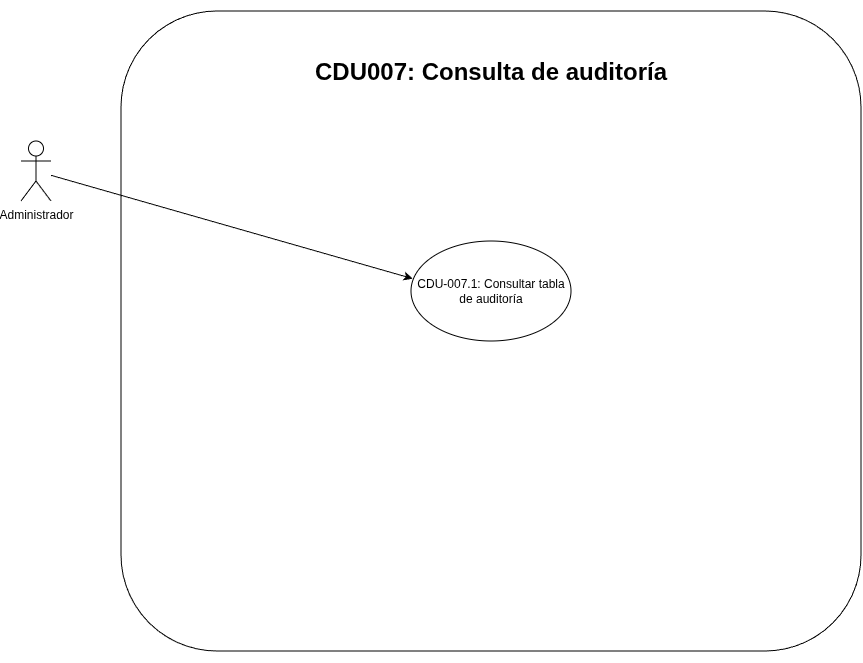
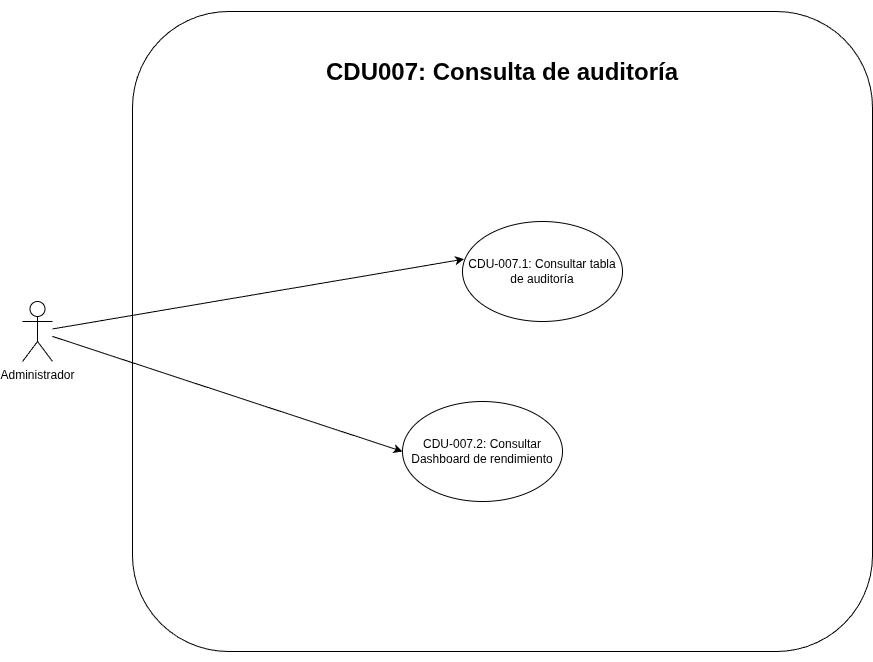
202300512: changes

diff --git a/docs/03_CasosDeUso/casosDeUso.md b/docs/03_CasosDeUso/casosDeUso.md
@@ -202,7 +202,7 @@
 | Descripción | Permite al usuario configurar o retirar un PIN restrictivo y definir la clasificación máxima que uno de sus perfiles puede reproducir sin solicitar dicho PIN. |
 | Precondiciones | El usuario debe haber iniciado sesión y el perfil que desea configurar debe pertenecer a su cuenta. La configuración se realiza al editar un perfil existente. |
 | Postcondiciones | El PIN queda almacenado de forma protegida y el nivel de control parental queda asociado al perfil; o ambos quedan desactivados cuando el usuario retira el PIN. |
-| Flujo principal | 1. El usuario ingresa a la administración de perfiles.<br>2. El usuario selecciona un perfil y abre su edición.<br>3. El usuario activa el PIN restrictivo.<br>4. El usuario ingresa un PIN numérico de cuatro dígitos.<br>5. El usuario selecciona la clasificación máxima permitida sin PIN: TP, PG-13 o R.<br>6. El usuario guarda los cambios.<br>7. El sistema valida y almacena el PIN cifrado mediante hash.<br>8. El sistema asocia el nivel seleccionado al perfil y confirma su actualización. |
+| Flujo principal | 1. El usuario ingresa a la administración de perfiles.<br>2. El usuario habilita administración de perfiles y abre la edición del perfil deseado.<br>3. El usuario activa el PIN restrictivo.<br>4. El usuario ingresa un PIN numérico de cuatro dígitos.<br>5. El usuario selecciona la clasificación máxima permitida sin PIN: TP, PG-13 o R.<br>6. El usuario guarda los cambios.<br>7. El sistema valida y almacena el PIN cifrado mediante hash.<br>8. El sistema asocia el nivel seleccionado al perfil y confirma su actualización. |
 | Flujos alternos | FA1. El usuario desactiva el PIN restrictivo.<br>FA1.1 El sistema limpia el PIN y el nivel de control parental del perfil.<br>FA2. El contenido seleccionado para reproducir supera el nivel configurado.<br>FA2.1 El sistema solicita el PIN antes de reproducir, reanudar o crear una Watch Party.<br>FA3. El usuario cancela la solicitud del PIN durante la reproducción.<br>FA3.1 El sistema no ejecuta la acción protegida. |
 | Flujos de excepción | FE1. El PIN no contiene exactamente cuatro dígitos numéricos.<br>FE1.1 El sistema rechaza la configuración e informa la validación requerida.<br>FE2. El perfil no existe o no pertenece a la cuenta autenticada.<br>FE2.1 El sistema informa que el perfil no fue encontrado.<br>FE3. La sesión expiró o falla la persistencia de la configuración.<br>FE3.1 El sistema no completa la operación y muestra el error correspondiente. |
 | Reglas de negocio | El PIN debe contener exactamente cuatro dígitos y se almacena mediante hash, no en texto plano.<br>Los únicos niveles admitidos son TP, PG-13 y R.<br>El PIN se solicita únicamente cuando el contenido tiene una clasificación superior al nivel del perfil y el perfil conserva tanto PIN como nivel configurado.<br>La configuración solo puede modificarse desde la cuenta propietaria del perfil. |
@@ -483,9 +483,9 @@
 | Precondiciones | El usuario debe haber iniciado sesión, tener un perfil activo y contar con una suscripción válida para el contenido solicitado. |
 | Postcondiciones | Reproducción iniciada correctamente; o acceso denegado por falta de permisos, suscripción o disponibilidad del contenido. |
 | Flujo principal | 1. El usuario selecciona un contenido disponible.<br>2. El sistema valida la suscripción y el acceso del perfil activo.<br>3. El sistema prepara la reproducción del contenido.<br>4. El sistema inicia la reproducción para el usuario. |
-| Flujos alternos | FA1. El usuario no tiene una suscripción.<br>FA1.1 El sistema incita a comprar una suscripción.<br>FA2. El contenido no está disponible.<br>FA2.1 El sistema informa que no puede reproducirse. |
+| Flujos alternos | FA1. El usuario no tiene una suscripción.<br>FA1.1 El sistema incita a comprar una suscripción.<br>FA2. El contenido no está disponible.<br>FA2.1 El sistema informa que no puede reproducirse.<br>FA3. El perfil activo tiene control parental con PIN y el contenido seleccionado supera la clasificación permitida para el perfil.<br>FA3.1 El sistema consulta las restricciones del perfil y solicita el PIN de seguridad antes de iniciar la reproducción.<br>FA3.2 El usuario ingresa el PIN solicitado.<br>FA3.3 El sistema verifica el PIN; si es correcto, inicia la reproducción del contenido.<br>FA4. El usuario cancela la solicitud del PIN o ingresa un PIN incorrecto.<br>FA4.1 El sistema no inicia la reproducción y mantiene al usuario en el detalle del contenido. |
 | Flujos de excepción | FE1. Error de conexión con la base de datos.<br>FE1.1 El sistema informa que no fue posible validar la suscripción. Intenta nuevamente.<br>FE2. Error de conexión con el servicio de streaming.<br>FE2.1 El sistema informa que no fue posible iniciar la reproducción. Intenta nuevamente. |
-| Reglas de negocio | Solo puede reproducirse contenido disponible para una cuenta con acceso válido.<br>La reproducción debe quedar asociada al perfil activo. |
+| Reglas de negocio | Solo puede reproducirse contenido disponible para una cuenta con acceso válido.<br>La reproducción debe quedar asociada al perfil activo.<br>Cuando el perfil tiene PIN y control parental configurados, el sistema debe solicitar el PIN si la clasificación del contenido es superior al nivel permitido del perfil. |
 | Reglas de calidad | El inicio de reproducción debe ocurrir con el menor retraso posible.<br>Los mensajes de restricción de acceso deben ser claros para el usuario. |
 
 #### CDU-005.2 Reanudación de Reproducción
@@ -641,11 +641,12 @@
 | Reglas de negocio | Solo administradores pueden eliminar contenido.<br>La eliminación debe aplicarse únicamente a contenidos existentes. |
 | Reglas de calidad | La acción debe requerir confirmación explícita para evitar errores.<br>El sistema debe mostrar un mensaje claro sobre el resultado final. |
 
-### Expandidos de CDU007: Consulta de Auditoría del Catálogo
+### Expandidos de CDU007: Consulta de Auditoría
 
 ![CDU007](./img/CDU_CDU007.png)
 
 - **CDU-007.1**: Consulta de Tabla de Auditoría
+- **CDU-007.2**: Consultar Dashboard de rendimiento
 
 #### CDU-007.1 Consulta de Tabla de Auditoría
 
@@ -663,8 +664,20 @@
 | Reglas de negocio | Solo administradores autorizados pueden consultar la auditoría del catálogo.<br>Los eventos de auditoría deben originarse desde triggers de base de datos sobre operaciones de inserción, actualización y eliminación.<br>La consulta debe limitar la cantidad de registros retornados para evitar sobrecarga del servicio. |
 | Reglas de calidad | La tabla debe presentar los eventos en orden cronológico descendente para facilitar la revisión reciente.<br>La exportación debe conservar los datos relevantes de la auditoría mostrada.<br>Los errores de autorización o sesión deben informarse sin exponer detalles sensibles. |
 
+#### CDU-007.2 Consultar Dashboard de rendimiento
 
-[Volver al documentación](../Documentación.md)
+| Campo | Especificación |
+|----|----|
+| Nombre | Consultar Dashboard de rendimiento |
+| Código | CDU-007.2 |
+| Actores | Administrador |
+| Descripción | Permite al administrador consultar un dashboard de rendimiento del sistema, mostrando métricas clave del estado del sistema de streaming. |
+| Precondiciones | El administrador debe haber iniciado sesión con una cuenta activa.<br>El administrador tiene acceso y una sesión activa en Grafana. |
+| Postcondiciones | El administrador visualiza el dashboard con las métricas actualizadas. |
+| Flujo principal | 1. El administrador accede a la sección de dashboard desde la página principal de Grafana.<br>2. El sistema recupera y muestra las métricas clave del sistema.<br>3. El administrador visualiza las métricas y los gráficos para obtener información operativa. |
+| Flujos de excepción | FE1. No hay conexión a prometheus para obtener las métricas.<br>FE1.1 El sistema muestra un mensaje de error indicando que no se pueden recuperar las métricas. |
+
+[Volver al documentación](../Documentación.md) 
 
 ## Archivo Crudo
 